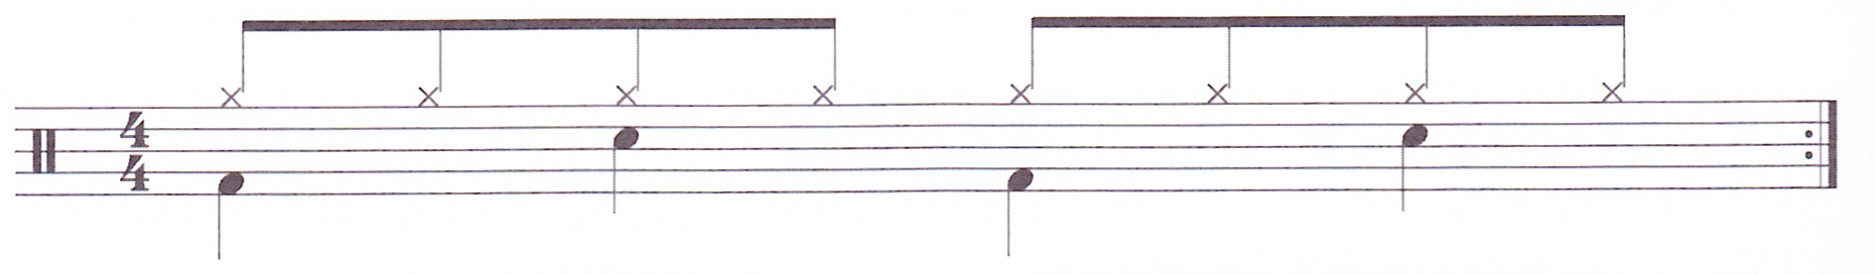
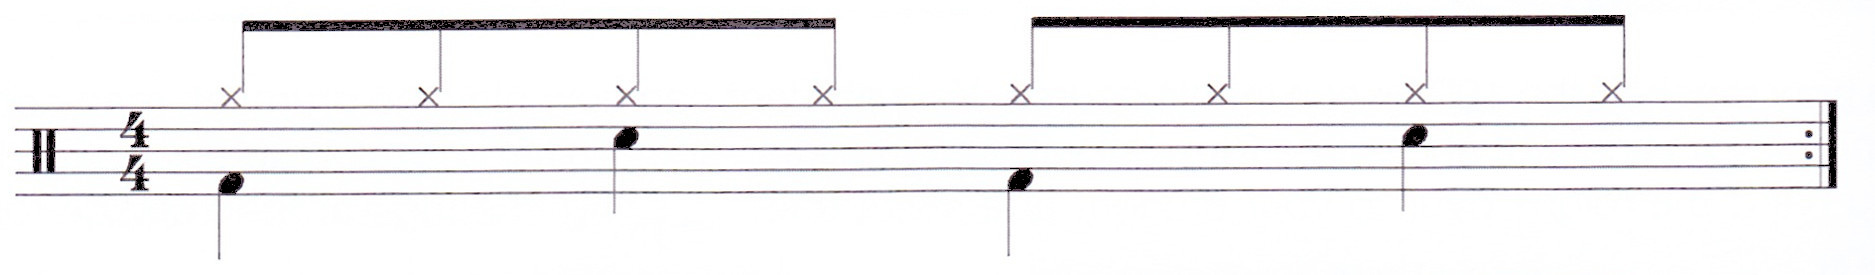
Make drum score transparent and sharpen

diff --git a/src/UI/Score.tsx b/src/UI/Score.tsx
@@ -3,7 +3,7 @@ import React from "react";
 const Score = () => {
   return (
     <div id="score" className="panel">
-      <img src="./images/drumScore1.jpg" className="w-100" />
+      <img src="./images/drumScore1.png" className="w-100" />
     </div>
   );
 };
